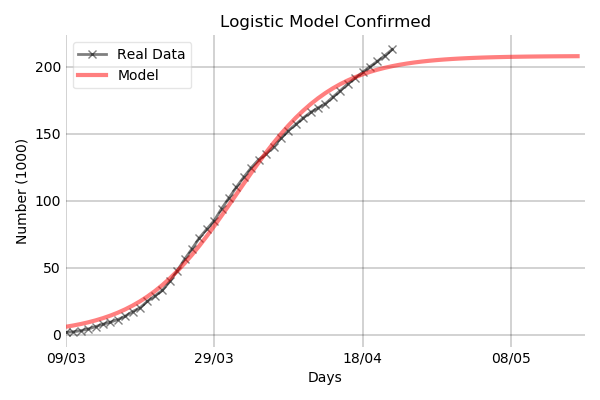
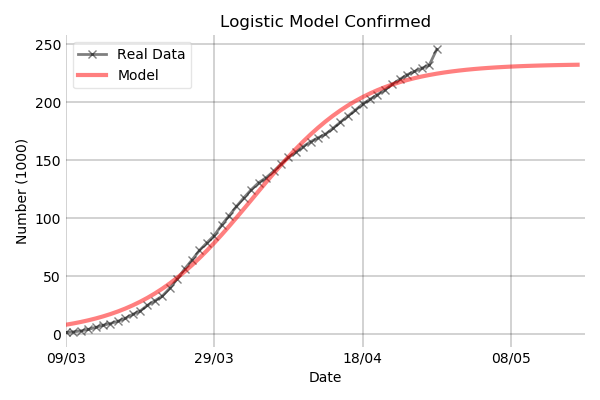
Daily reports added to the main code

Changed region(s): [[0.06, 0.09, 0.99, 0.84], [0.06, 0.09, 0.12, 0.18], [0.51, 0.93, 0.57, 0.96]]

diff --git a/covid19.py b/covid19.py
@@ -2,10 +2,12 @@ import pandas as pd
 import numpy as np
 import matplotlib.pyplot as plt
 from scipy import optimize
-
+from pandas.plotting import register_matplotlib_converters
+register_matplotlib_converters()
 
 def get_data(csv_route, date_label='Date', country_label='Country', confirmed_label='Confirmed',
-             deaths_label='Deaths', recovered_label='Recovered', drop_first=0, drop_last=0, dayfirst=False):
+             deaths_label='Deaths', recovered_label='Recovered', drop_first=0, drop_last=0, dayfirst=False,
+             sumcolumns=None):
 
     """ Get the data from a .csv file. This .csv file must contain a time series with
         data for each date in one column, and must contain a 'Country' column.
@@ -22,9 +24,13 @@ def get_data(csv_route, date_label='Date', country_label='Country', confirmed_la
         - drop_first : (int) Number of first lines to drop (Default 0)
         - drop_last : (int) Number of last lines to drop (Default 0)
         - dayfirst : (bool) True if date has the day before month (Default False)
+        - sumcolumns : (dict) If not None, for each key it takes the columns from a list and adds it (Default None)
         """
 
-    df = pd.read_csv(csv_route, skiprows=drop_first, skipfooter=drop_last, engine='python').fillna(0) # Read the CSV
+    df = pd.read_csv(csv_route, skiprows=drop_first, skipfooter=drop_last, engine='python').fillna(0)  # Read the CSV
+    if sumcolumns:
+        for col in sumcolumns:
+            df[col] = df[sumcolumns[col]].sum(axis=1)
     df = df.rename({date_label: 'Date', country_label: 'Country', confirmed_label: 'Confirmed',
                     deaths_label: 'Deaths', recovered_label: 'Recovered'}, axis=1) # Rename using labels provided
     df['Date'] = pd.to_datetime(df['Date'], dayfirst=dayfirst)  # Converts date strings to timestamp
@@ -63,6 +69,32 @@ def clean_data(data, country=None, threshold=None, lastminute=None):
         active[pd.datetime.now()] = lastminute[0] - lastminute[1] - lastminute[2]
 
     return confirmed, deaths, active
+
+
+def format_axis(ax, values, days_range, tmax=None):
+
+    """ Given an matplotlib.pyplot.axis object, it returns the same object formatting the date values on the x-axis
+
+        Parameters:
+        - ax (matplotlib.pyplot.axis) The axis to format
+        - values (pandas.DataFrame or pandas.Series) The data which appears on the plot
+        - days_range (int) Days between x-label ticks
+        - tmax (int) Maximum number of days to show, default chooses the lenght of values (Default None)"""
+
+    initial_date = values.index.values[0]  # Select the initial date
+
+    if tmax:
+        days_ticks = range(tmax)  # Expand or truncate to tmax if necesary
+    else:
+        days_ticks = range(len(values))  # Automatically chooses the lenght of values
+
+    # Format the labels to day / month strings
+    days_labels = [str(pd.to_datetime(initial_date + np.timedelta64(i, 'D')).day).zfill(2) + '/' +
+                   str(pd.to_datetime(initial_date + np.timedelta64(i, 'D')).month).zfill(2) for i in days_ticks]
+
+    ax.set_xticks(days_ticks[::days_range])  # Define the matplotlib xticks
+    ax.set_xticklabels(days_labels[::days_range])  # Define the matplotlib xlabels
+    return ax
 
 
 def compare(data, countries, filename='figures\\compare.png', threshold=None, scale=1000):
@@ -115,6 +147,57 @@ def compare(data, countries, filename='figures\\compare.png', threshold=None, sc
     return values
 
 
+def daily_increases(data, country, filename='figures\\daily.png', threshold=None, scale=None):
+
+    """ Given a list of countries, plots the daily confirmed/deaths with respect to the previous day.
+
+        Parameters:
+        - data : (pandas.DataFrame) Output of get_data() method
+        - countries : (list) List of strings containing the countries to compare
+        - filename : (str) Location and filename to save the plot (Default 'figures\\compare.png')
+        - scale :  (list) Scale for the y-axis for confirmed and deaths (Default None)"""
+
+    if scale is None:
+        scale = [1000, 1]
+
+    confirmed, deaths, _ = clean_data(data, country, threshold)  # Clean the data
+    confirmed = confirmed - confirmed.shift(1) # Calculate the increases
+    deaths = deaths  -deaths.shift(1)
+
+    fig, (ax1, ax2) = plt.subplots(figsize=(12, 4), ncols=2)  # Creates the Figure
+
+    ax1.bar(range(len(confirmed)), confirmed.values / scale[0])  # Confirmed Cases
+    ax2.bar(range(len(deaths)), deaths.values / scale[1])  # Deaths
+
+    print()
+
+    ax1.grid(b=True, which='major', c='k', lw=0.25, ls='-')  # Style the grid
+    ax2.grid(b=True, which='major', c='k', lw=0.25, ls='-')
+
+    ax1.set_xlabel('Date')  # Set the x-axis label
+    ax2.set_xlabel('Date')
+
+    ax1.set_ylabel('Confirmed (' + str(scale[0]) + ')')  # Set the y-axis label
+    ax2.set_ylabel('Deaths (' + str(scale[1]) + ')')
+
+    ax1.yaxis.set_tick_params(length=0)  # Style the y-axis labels
+    ax2.yaxis.set_tick_params(length=0)
+
+    ax1.xaxis.set_tick_params(length=0)  # Style the x-axis labels
+    ax2.xaxis.set_tick_params(length=0)
+
+    ax1 = format_axis(ax1, confirmed, 7)
+    ax2 = format_axis(ax2, confirmed, 7)
+
+    for spine in ('top', 'right', 'bottom', 'left'):
+        ax1.spines[spine].set_visible(False)  # Style the figure box
+        ax2.spines[spine].set_visible(False)
+
+    plt.tight_layout()
+    fig.savefig(filename)  # Save the figure into the route
+    return confirmed, deaths
+
+
 def fit(values, model, lbounds, gbounds, guess=None, route='figures\\', title='Model',
         tmin=0, tmax=50, scale=1000, days_range=7):
 
@@ -151,20 +234,15 @@ def fit(values, model, lbounds, gbounds, guess=None, route='figures\\', title='M
     ax.legend().get_frame().set_alpha(0.5)  # Style the legend
     ax.grid(b=True, which='major', c='k', lw=0.25, ls='-')  # Style the grid
 
-    ax.set_xlabel('Days')  # Set the x-axis label
+    ax.set_xlabel('Date')  # Set the x-axis label
     ax.set_ylabel('Number (' + str(scale) + ')')  # Set the y-axis label
 
     ax.yaxis.set_tick_params(length=0)  # Style the y-axis labels
     ax.xaxis.set_tick_params(length=0)  # Style the x-axis labels
 
     ax.set_xlim([tmin, tmax])
-    initial_date = values.index.values[0]
-    days_ticks = range(tmax)
-    days_labels = [str(pd.to_datetime(initial_date + np.timedelta64(i, 'D')).day).zfill(2) + '/' +
-                   str(pd.to_datetime(initial_date + np.timedelta64(i, 'D')).month).zfill(2) for i in days_ticks]
 
-    ax.set_xticks(days_ticks[::days_range])
-    ax.set_xticklabels(days_labels[::days_range])
+    ax = format_axis(ax, values, days_range, tmax)
 
     ax.set_title(title)  # Set the title
 

diff --git a/tests.py b/tests.py
@@ -3,17 +3,24 @@ import numpy as np
 from models import sir_model, logistic_model
 
 # Get data From ISCIII website
-data = covid19.get_data('https://covid19.isciii.es/resources/serie_historica_acumulados.csv', drop_last=5,
+
+data = covid19.get_data('https://covid19.isciii.es/resources/serie_historica_acumulados.csv', drop_last=6,
                         date_label='FECHA', country_label='CCAA', confirmed_label='CASOS',
-                        deaths_label='Fallecidos', recovered_label='Recuperados', dayfirst=True)
+                        deaths_label='Fallecidos', recovered_label='Recuperados', dayfirst=True,
+                        sumcolumns={'CASOS':['CASOS', 'PCR+', 'TestAc+']})
 
 # Clean all the data with some Threshold to remove the first days of wrong data
 confirmed, deaths, active = covid19.clean_data(data, None, threshold=[1000, 1, 1000])
 print('Last Update: ', confirmed.index.max())
 
+covid19.daily_increases(data, None)
+
+# Compare all regions
+covid19.compare(data, data['Country'].drop_duplicates(), 'figures\\compare.png')
+
 # Fit the SIR Model
 covid19.fit(active,  sir_model, [0, 0, 1, 0, -np.inf], [np.inf, np.inf, np.inf, np.inf, np.inf],
-            [1, 2.5, 15, 1E6, 0], title='SIR Model', tmax=70, days_range=20)
+            [1, 5, 15, 1E6, 0], title='SIR Model', tmax=70, days_range=20)
 
 # Fit the Logistic Model for confirmed cases
 covid19.fit(confirmed,  logistic_model, [0, 0, 0], [np.inf, np.inf, np.inf], [1, 1, 1],
@@ -22,6 +29,3 @@ covid19.fit(confirmed,  logistic_model, [0, 0, 0], [np.inf, np.inf, np.inf], [1,
 # Fit the Logistic Model for deaths
 covid19.fit(deaths,  logistic_model, [-np.inf, -np.inf, -np.inf], [np.inf, np.inf, np.inf], [1, 1, 1],
             title='Logistic Model Deaths', tmax=70, scale=1, days_range=20)
-
-# Compare all regions
-covid19.compare(data, data['Country'].drop_duplicates().values, 'figures\\compare.png')
